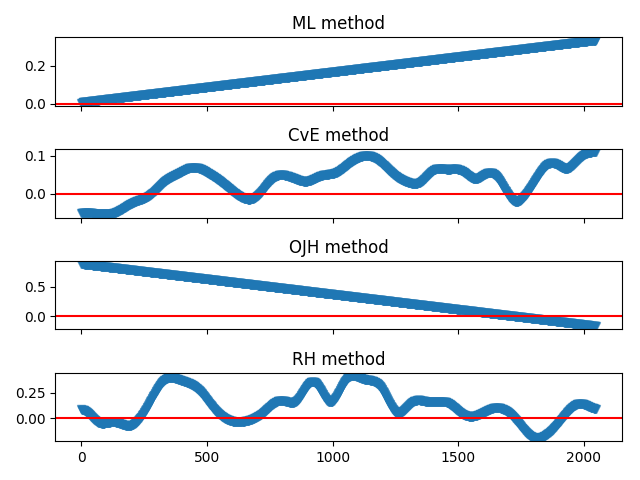
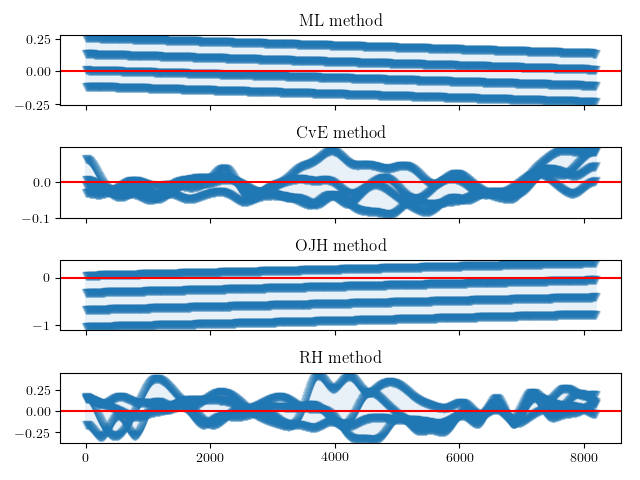
Switched flat simulated background back to a 1% error for consistency with report, and improved a figure. Fixed minor bugs in RH and OJH estimates.

diff --git a/FFI/Functions.py b/FFI/Functions.py
@@ -80,10 +80,6 @@ def circular_filter(data, diam=15, percentile=10, filter_type='percentile'):
     if filter_type == 'maximum':
         filt = nd.filters.maximum_filter(data, footprint=circle)
 
-    else:
-        print('Unfiltered.')
-        return data
-
     return filt
 
 def get_sim(style='flat'):
@@ -108,7 +104,8 @@ def get_sim(style='flat'):
 
     if style == 'complex':
         #If the background has already been generated on this local repository, read in
-        if os.path.isfile('complex_sim.tar.gz'):
+        if os.path.isfile('../Tests/complex_sim.fits'):
+            print('hello')
             sim = pyfits.open('complex_sim.fits')[0].data
             bkg = pyfits.open('complex_sim_bkg.fits')[0].data
 
@@ -151,7 +148,7 @@ def get_sim(style='flat'):
 
     if style == 'flat':
         z = 1000        #height of the background
-        sigma = 100     #Error on the background
+        sigma = 10     #Error on the background
 
         sim = np.random.normal(z, sigma, shape)
         return sim, np.ones(shape)*z

diff --git a/FFI/RH_estimate.py b/FFI/RH_estimate.py
@@ -60,7 +60,7 @@ def fit_background(ffi):
     bkg_est_unfilt = bkg.background
 
     #Smoothing the background using a percentile filter
-    bkg_est = circular_filter(bkg_est_unfilt, diam=15, percentile=50, filter_type='percentile')
+    bkg_est = circular_filter(bkg_est_unfilt, diam=15, percentile=50)
 
     return bkg_est
 

diff --git a/FFI/OJH_estimate.py b/FFI/OJH_estimate.py
@@ -180,7 +180,7 @@ if __name__ == '__main__':
 	ffi_type = ffis[0]
 
 	# ffi, bkg = load_files(ffi_type)
-	ffi, bkg = get_sim()
+	ffi, bkg = get_sim(style='flat')
 
 	#Get background
 	est_bkg = fit_background(ffi, ribsize, nside, itt_ransac, order, plots_on)
